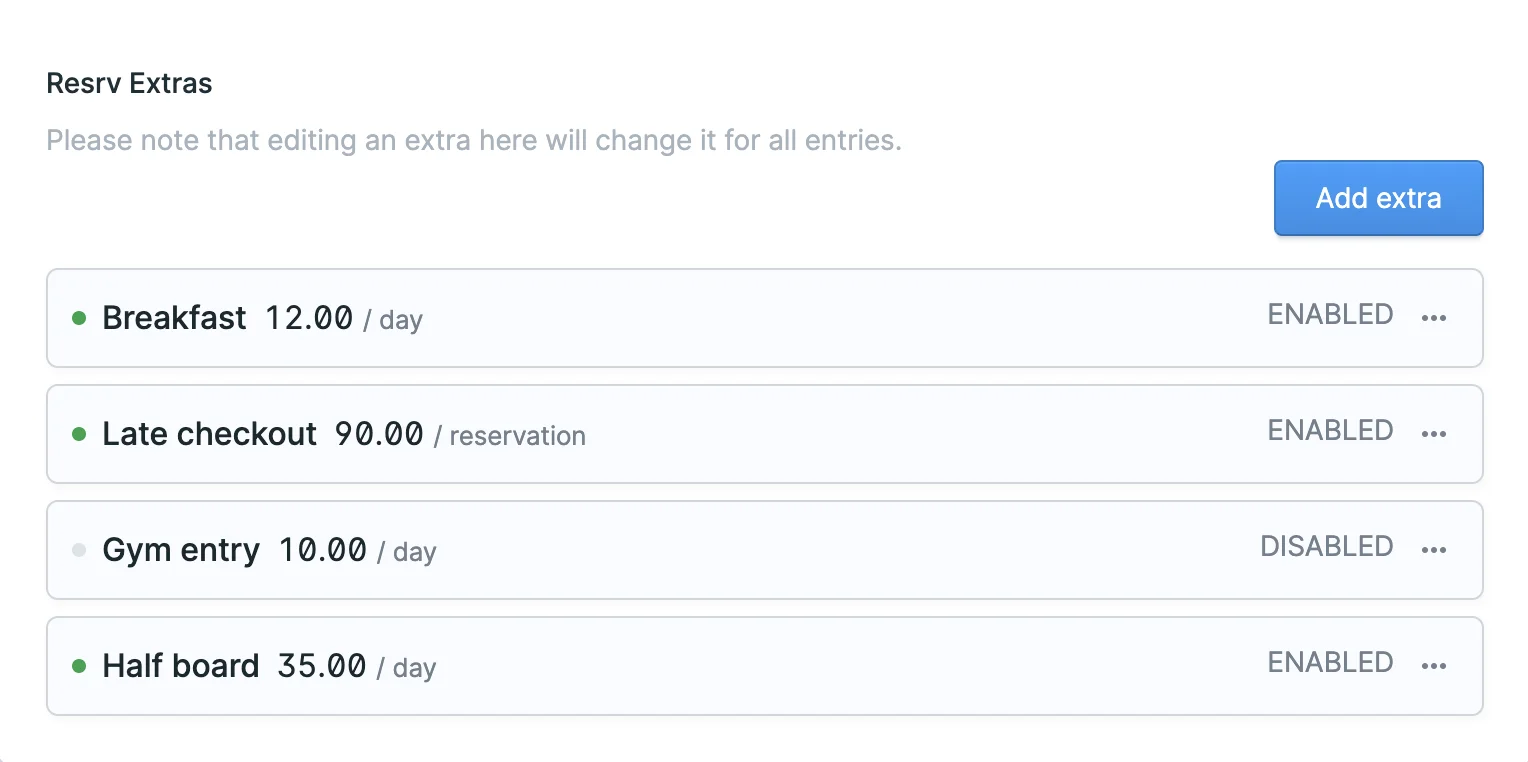
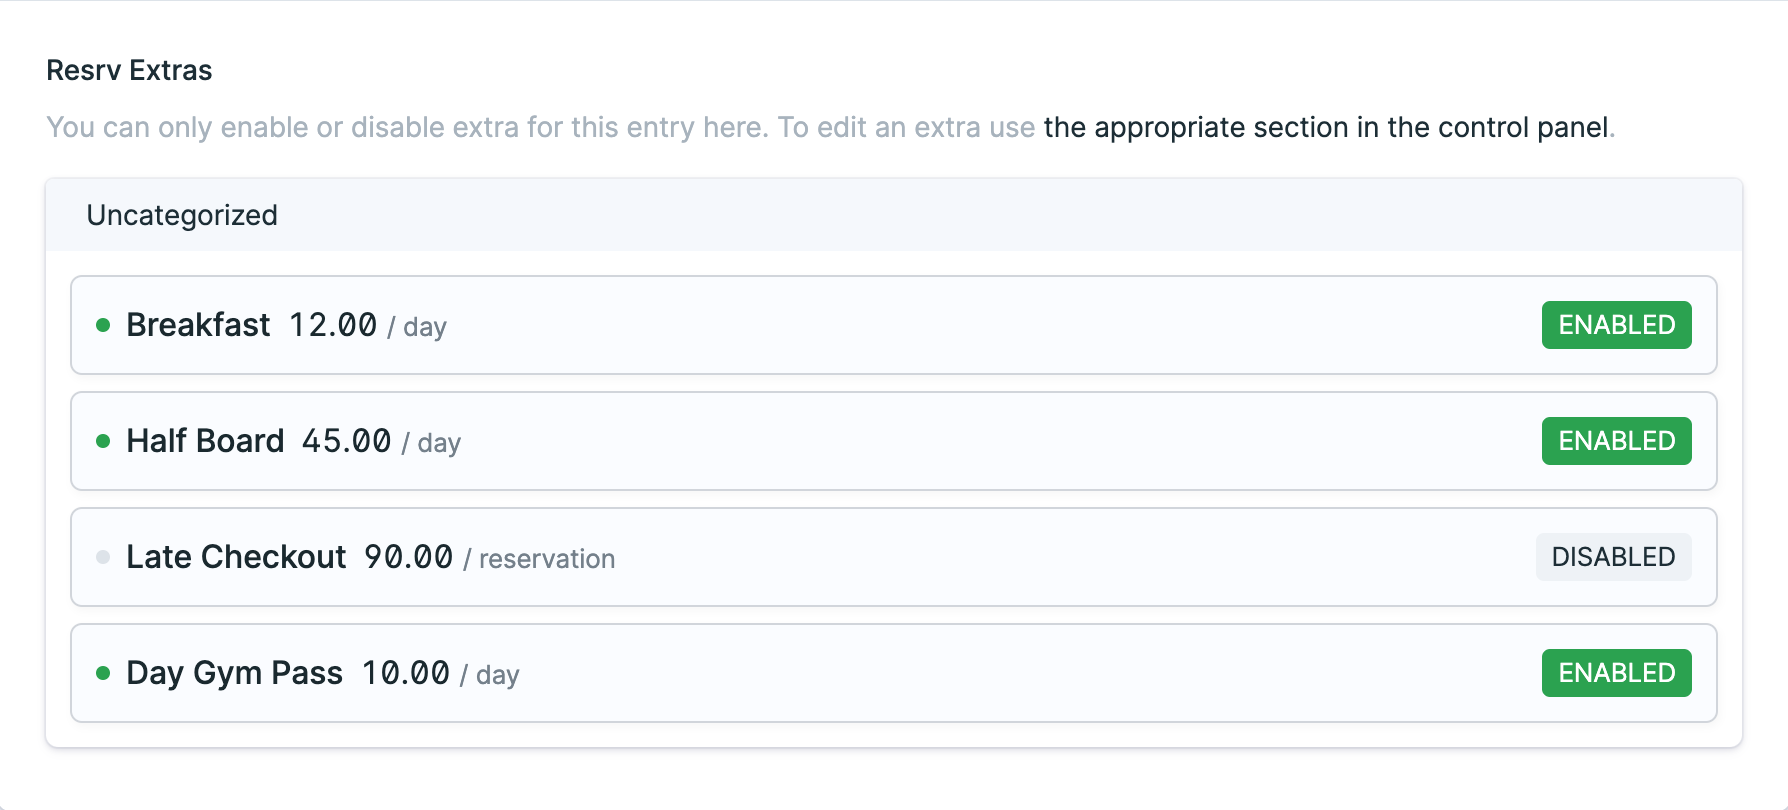
4.0.0 docs

diff --git a/extras.md b/extras.md
@@ -18,17 +18,25 @@ Each Extra has a name, a description, and a price. The price can be calculated i
 
 - **Relative to a checkout form item**: You can select a field in the [checkout form](./checkout) (should be a numerical field) and calculate the price based on the value of that field. For example, if you set the field to `adults` and the price to `10`, and the user selects `3` adults, the Extra will cost `30`.
 
+If you enable the **Can add more than one** option, the user can use a quantity field on the frontend to order more than one of that extra, up to the max amount you set with "Maximum number for 1 reservation".
+
+You can also override the default name by using the **Override label** field (useful if you have many similar extras and want to differentiate them in the control panel but display the same name to the user).
+
 After you've created your Extras, you need to assign them to the Entries you want them to be available for. To do that, simply open the dropdown menu and select **Mass assign**:
 
 <Image src="./img/resrv-extras-assign.webp" alt="The dropdown menu option to assign Extras to Entries." />
 
+## Extra Categories
+
+If you wish, you can organize your extras in categories. This doesn't alter their functionality in any way, but you can display them to the user organized in a more natural way, plus add a description text on each category. As an added bonus, you can publish/unpublish a whole category.
+
+To use this feature, just add a category and add extras to it (or drag and drop existing extras).
+
 ## Extras Field (Optional)
 
-Besides the Extras management page, you can also add a `Resrv Extras` field to your Blueprint. While not necessary, it's a good idea to add this field to your Entries so that you can easily see which Extras are available for each Entry and enable or disable them.
+Besides the Extras management page, you can also add a `Resrv Extras` field to your Blueprint. While not necessary, it's a good idea to add this field to your Entries so that you can easily see which Extras are available for each Entry.
 
-Just note that even though the Extras field appears inside an Entry, editing an Extra through it affects it **globally**.
-
-<Image src="./img/resrv-extras-field.webp" alt="The guests of this room type can't use the gym." />
+<Image src="./img/resrv-extras-field.webp" alt="The guests of this room type can't order a late checkout." />
 
 ## Conditions
 
@@ -38,9 +46,7 @@ For example, here we only show the `Late Checkout` Extra if the reservation is a
 
 <Image src="./img/resrv-extras-conditions.webp" alt="Extra conditions." />
 
-::: warning UNDER CONSTRUCTION
-Even though the conditions are implemented in the backend, they are not yet available in the frontend. You can only use the `Required` condition at the moment when using the Livewire components.
-:::
+Required extras display on the frontend as enabled and cannot be disabled by the user, so we suggest you add a note about it in that Extra's description.
 
 ## Extras or Options?
 
@@ -51,6 +57,7 @@ The basic questions you need to ask yourself are:
 - Do I want this to apply to all my Entries or just one?
 - Does it have a fixed price, or does it depend on the Entry?
 - Do I need the advanced pricing options that an `Extra` offers?
+- Do I need to conditionaly require, show or hide an extra based on another extra or variables of the reservation?
 
 If you answered yes to any of these questions, you're probably better off using an `Extra`. In most cases, it's the best choice.
 

diff --git a/CHANGELOG.md b/CHANGELOG.md
@@ -1,0 +1,60 @@
+# Resrv Changelog
+
+## v4.0.0
+#### Release date: 28th Feb 2025
+
+- New frontend calendar based on [Vanilla Calendar Pro](https://vanilla-calendar.pro/).
+    - Added the capability to display price and availability per day inside the calendar itself.
+    - The calendar now respects minimum and maximum durations and doesn't allow the user to select an unsupported range.
+- New extra categories feature: your extras can now belong to categories.
+- Extras are now using the `Entry` model to associate themselves with Entries.
+- Extras are no longer editable inside an Entry using the `resrv_extras` field.
+- Full conditional extras support (Show / hide or require extras based on conditions).
+- New phone dictionary (both frontend and backend) for the checkout form that displays country phone code select box plus a text input for the phone number.
+- Added a `resrv:import-entries` command that can be used to sync the site's Entries to Resrv's database.
+- Improved extension's config display in the control panel and various panels.
+- Upgraded the Stripe library to the latest version.
+- Various small bug fixes.
+
+### Upgrading
+
+- **Make a backup of your database.**
+- **Migrate your database by running `php artisan migrate`**
+- The *resrv_statamicentry_extra* table is being replaced by the *resrv_entry_extra* table. This should be handled automatically by the migration but please database.
+- There are major changes in Resrv's frontend views: if you were overriding those you need to manually upgrade the availability-search.blade.php, checkout-extras.blade.php, checkout-extra.blade.php files (and possibly more like the dictionary fields).
+
+## v3.2.0
+#### Release date: 1st Oct 2024
+
+- Removed all the legacy API endpoints, controllers and more.
+- Added more tests to cover scenarios that were tested from the API endpoints.
+- Fix an issue that when a date range would contain the date that Daylight saving starts, the duration would be a day less.
+
+## v3.1.0
+#### Release date: 18th Sept 2024
+
+- NEW Added support for Dictionaries in your checkout forms so that you can easily add selects with many options, like Countries.
+- NEW New AlpineJS component for dictionaries, with filtering.
+- FIX The select field was not working on checkout forms due to some changes from Statamic's side.
+- FIX Calendar and Reports will now show and take into account accordingly partner reservations. (made via the affiliate system).
+
+### Upgrading
+Please note that if you have already overridden the Resrv views you will need to copy the file dictionary.blade.php from views/livewire/component/fields to your views/vendor/statamic-resrv folder.
+
+## v3.0.1
+#### Release date: 9th Sept 2024
+
+- Fixed an issue when at the first save of an Entry that had a Resrv Availability field as "disabled" the value would not get saved thus making the Entry available to reserve.
+- Fixed two issues with Fixed pricing.
+- Updated the documentation URL and added the logo.
+
+## v3.0.0
+#### Release date: 3rd Sept 2024
+
+- Disabled legacy endpoints be default.
+- Removed support for Statamic 4.
+- Fixed some icons in dark mode.
+- Small fixes in Livewire components.
+- Improved the LfAvailabilityFilter component so that it requires less properties.
+- Added the live-availability data in the entries when using the regular Collection tag via a Hook.
+

diff --git a/frontend-setup.md b/frontend-setup.md
@@ -29,9 +29,9 @@ Even though it's not strictly necessary, it's recommended to add the Livewire st
 
 ## Other required assets
 
-Besides the Livewire scripts, Resrv also requires [Flatpickr](https://flatpickr.js.org/) and [Day.js](https://day.js.org/).
+Besides the Livewire scripts, Resrv also requires [Vanilla Calendar Pro](https://vanilla-calendar.pro/) and [Day.js](https://day.js.org/).
 
-You can either install them via npm and include them in your build process (make sure you also import Flatpickr's CSS), or you can include them directly in your layout file using a pre-compiled version that ships with Resrv:
+You can always install them via npm and include them in your build process (make sure you also import the necessary CSS file), but it's highly suggested that you can include them directly in your layout file using a pre-compiled version that ships with Resrv:
 
 ```antlers{11,17}
 <!-- resources/views/layout.antlers.html -->
@@ -55,6 +55,11 @@ You can either install them via npm and include them in your build process (make
     </body>
 </html>
 ```
+
+::: info
+We have forked Vanilla Calendar Pro in order to better support minimum and maximum ranges plus to make it easier to style using CSS variables. You can always use the upstream version but you might have some minor annoyances.
+:::
+
 
 ## Frontend styles & TailwindCSS
 
@@ -96,3 +101,29 @@ If you are not using TailwindCSS, it's recommended that you style the Livewire c
 ::: warning
 The `resrv-tailwind.css` file should only be included if you don't use TailwindCSS. Since it contains what are known as reset styles, it can mess up your site's styling. The suggested approach is to use it as a starting point and then style the components yourself using your own CSS.
 :::
+
+## CSS Variables
+
+You can set the following CSS variables in your style file in order to style Vanilla Calendar Pro:
+
+```css
+--calendar-day-font-size: 1rem;
+--calendar-price-font-size: 0.75rem;
+--calendar-day-font-weight: 400;
+--calendar-day-padding: 0px;
+--calendar-day-border-radius: 0.5rem;
+--calendar-color-white: #ffffff;
+--calendar-color-slate-50: #f8fafc;
+--calendar-color-slate-100: #f1f5f9;
+--calendar-color-slate-200: #e2e8f0;
+--calendar-color-slate-300: #cbd5e1;
+--calendar-color-slate-400: #94a3b8;
+--calendar-color-slate-500: #64748b;
+--calendar-color-slate-600: #475569;
+--calendar-color-slate-900: #0f172a;
+--calendar-color-main: #06b6d4;
+--calendar-color-weekend-enabled: #f43f5e;
+--calendar-color-weekend-disabled: #fff1f2;
+```
+
+Use `!important` in case your changes are not visible.

diff --git a/availability-search-component.md b/availability-search-component.md
@@ -34,6 +34,8 @@ Of course, there are quite a few properties that you can set depending on the us
 | anyAdvanced | boolean | false | **Usable when searching for multiple entries** When enabled, the component will pass "any" as the property and the results will return the cheapest property that is available. |
 | resetAdvancedOnBoot | boolean | false | When enabled, the component will reset the property when it boots back to null regardless of what's saved in the session. |
 | overrideProperties | array | null | You can override the properties that have been set up using Advanced Availability in the Collection. |
+| showAvailabilityOnCalendar | boolean | false | Show availability & pricing information on the calendar. Usable only when browsing [a specific entry](/availability-search-single#display-availability-in-the-calendar). |
+| entry | string | none | **Needs to be a Statamic Entry ID**. Only needed when *showAvailabilityOnCalendar* is enabled. |
 | view | string | "availability-search" | You can override the view that is used to render the component. Really useful when you want to have different versions of the AvailabilitySearch component on different pages. Expects a `name.blade.php` file in the `/resources/views/vendor/statamic-resrv/livewire` folder. |
 
 ## Customizing

diff --git a/availability-search-single.md b/availability-search-single.md
@@ -23,6 +23,18 @@ Here, we have an AvailabilitySearch component with advanced availability and qua
 
 <Image src="./img/resrv-availability-search-single.webp" alt="What the above example displays with some minimal changes" />
 
+## Display availability in the calendar
+
+When inside an entry, you may want to display the availability plan (pricing & available items) for that entry. To do this, enable the `showAvailabilityOnCalendar` parameter and pass the entry's ID, for example:
+
+```antlers
+{{ livewire:availability-search showAvailabilityOnCalendar="true" :entry="id" }}
+```
+
+Resrv takes care of the rest for you:
+
+<Image src="./img/resrv-availability-search-with-prices.webp" alt="The calendar with availability displayed." />
+
 ## Error handling
 
 The component will display relevant information or error messages if the user fails to set all the required search properties (in this example, date & property) or if there is no availability.

diff --git a/checkout.md b/checkout.md
@@ -70,6 +70,8 @@ You can use Statamic's validation tab to add validation to your fields. The fiel
 - Toggle
 - Dictionaries <Badge type="tip" text="NEW" />
 
+The dictionary *Countries* will display an AlpineJS filtered select box. Resrv adds the dictionary *Country Phone Codes* which displays a select box with all country codes plus an input box for the actual phone number.
+
 <Image src="./img/resrv-checkout-form.webp" alt="The checkout form in the Statamic form builder." />
 
 <Image src="./img/resrv-checkout-form-frontend.webp" alt="And the same checkout form in the frontend." />
